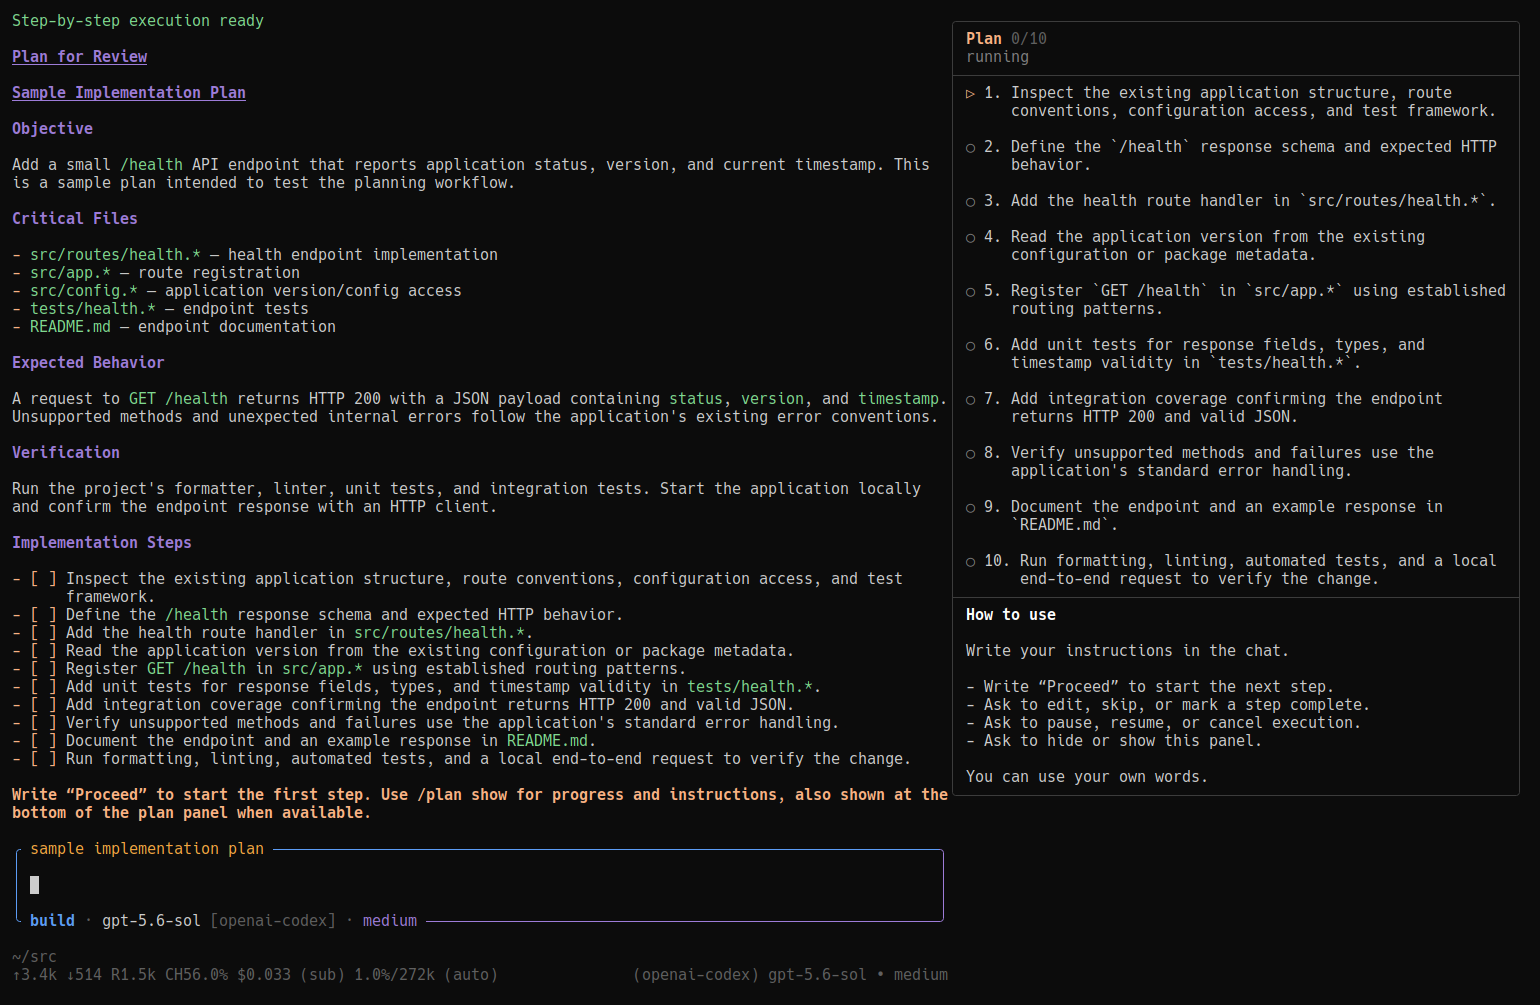
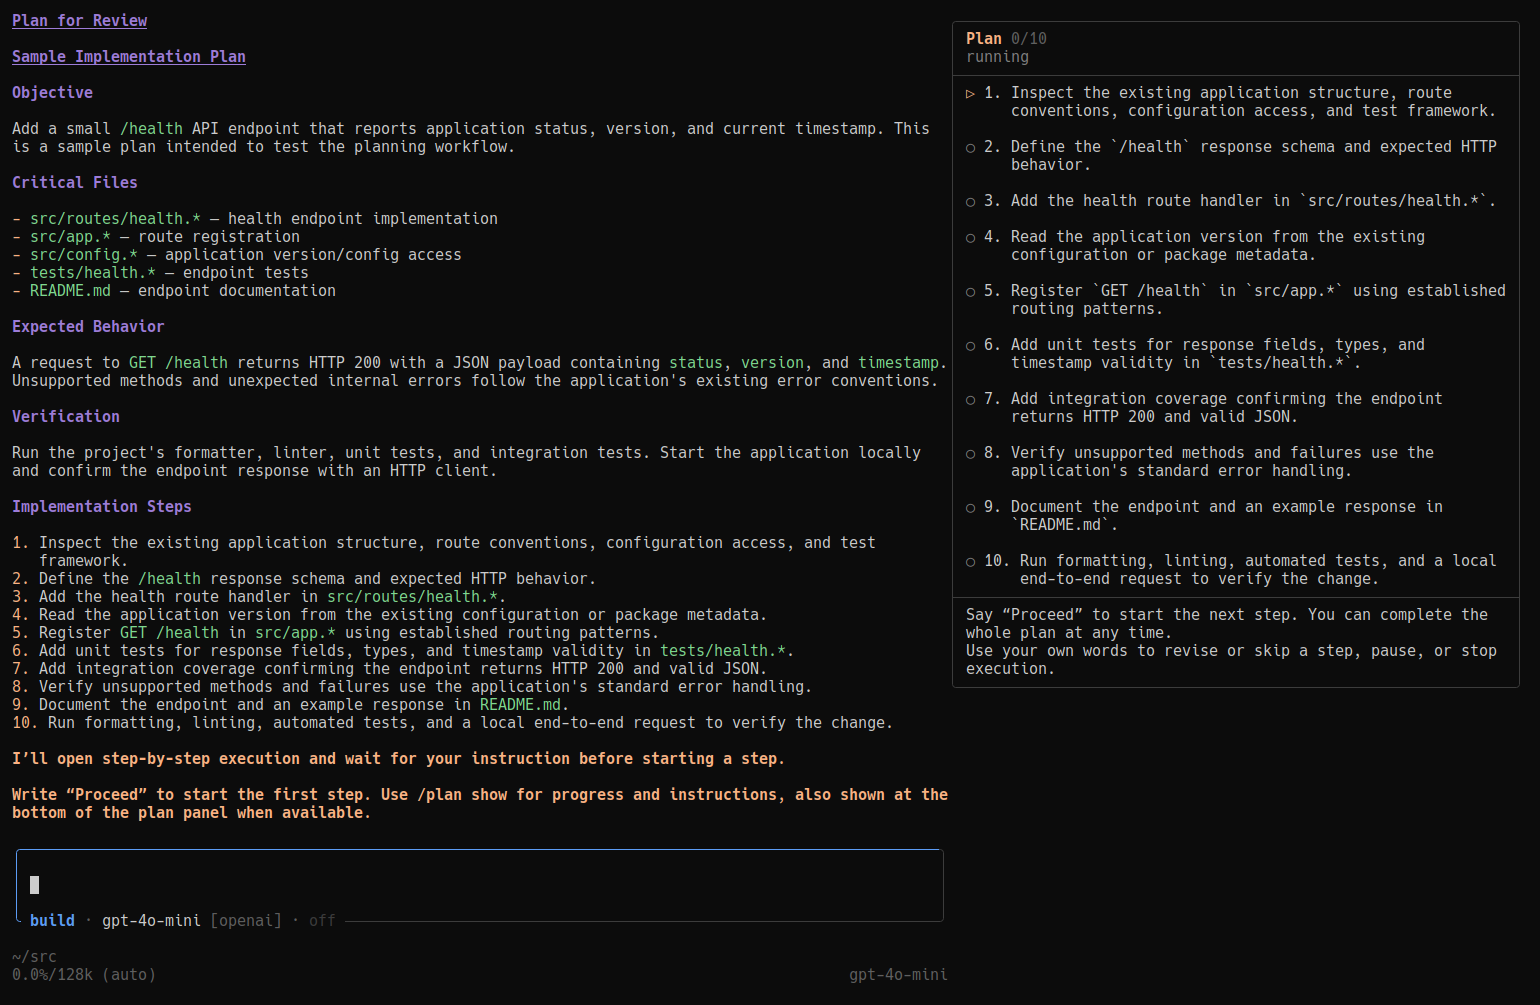
Release 0.1.93: keep panel guidance visible

diff --git a/plan-panel.ts b/plan-panel.ts
@@ -1,5 +1,5 @@
 import type { Theme } from "@earendil-works/pi-coding-agent";
-import { ScrollView, truncateToWidth, visibleWidth, wrapTextWithAnsi, type Component } from "@earendil-works/pi-tui";
+import { ScrollView, truncateToWidth, visibleWidth, VStack, wrapTextWithAnsi, type Component } from "@earendil-works/pi-tui";
 import type { PlanExecutionState } from "./plan-execution.ts";
 
 /**
@@ -24,7 +24,20 @@ const GLYPHS = {
 	skipped: "–",
 } as const;
 
-export class PlanPanel implements Component {
+function panelFrame(width: number, theme: Theme) {
+	const safeWidth = Math.max(12, width);
+	const inner = Math.max(1, safeWidth - 2);
+	const contentWidth = Math.max(1, safeWidth - 4);
+	const border = (text: string) => theme.fg("borderMuted", text);
+	const pad = (content = "") => {
+		const clipped = truncateToWidth(content, contentWidth, "");
+		return `${border("│")} ${clipped}${" ".repeat(Math.max(0, contentWidth - visibleWidth(clipped)))} ${border("│")}`;
+	};
+	const fit = (lines: string[]) => lines.map((line) => truncateToWidth(line, safeWidth, ""));
+	return { safeWidth, inner, contentWidth, border, pad, fit };
+}
+
+class PlanPanelHeader implements Component {
 	private state: PlanExecutionState;
 	private readonly theme: Theme;
 
@@ -40,22 +53,36 @@ export class PlanPanel implements Component {
 	invalidate(): void {}
 
 	render(width: number): string[] {
-		const safeWidth = Math.max(12, width);
-		const inner = Math.max(1, safeWidth - 2);
-		const contentWidth = Math.max(1, safeWidth - 4);
-		const border = (text: string) => this.theme.fg("borderMuted", text);
-		const pad = (content = "") => {
-			const clipped = truncateToWidth(content, contentWidth, "");
-			return `${border("│")} ${clipped}${" ".repeat(Math.max(0, contentWidth - visibleWidth(clipped)))} ${border("│")}`;
-		};
+		const { inner, border, pad, fit } = panelFrame(width, this.theme);
 		const done = this.state.steps.filter((step) => step.status === "completed" || step.status === "skipped").length;
 		const status = this.state.status === "completed" ? "complete" : this.state.status;
-		const lines = [
+		return fit([
 			border(`╭${"─".repeat(inner)}╮`),
 			pad(`${this.theme.bold(this.theme.fg("accent", "Plan"))} ${this.theme.fg("dim", `${done}/${this.state.steps.length}`)}`),
 			pad(this.theme.fg(this.state.status === "completed" ? "success" : this.state.status === "paused" ? "warning" : "muted", status)),
 			border(`├${"─".repeat(inner)}┤`),
-		];
+		]);
+	}
+}
+
+class PlanPanelSteps implements Component {
+	private state: PlanExecutionState;
+	private readonly theme: Theme;
+
+	constructor(state: PlanExecutionState, theme: Theme) {
+		this.state = state;
+		this.theme = theme;
+	}
+
+	setState(state: PlanExecutionState): void {
+		this.state = state;
+	}
+
+	invalidate(): void {}
+
+	render(width: number): string[] {
+		const { contentWidth, pad, fit } = panelFrame(width, this.theme);
+		const lines: string[] = [];
 		for (let index = 0; index < this.state.steps.length; index++) {
 			const step = this.state.steps[index]!;
 			const glyphColor = step.status === "completed" ? "success" : step.status === "active" || step.status === "ready" ? "accent" : "muted";
@@ -67,23 +94,53 @@ export class PlanPanel implements Component {
 			for (const continuation of wrapped.slice(1)) lines.push(pad(`${continuationIndent}${continuation}`));
 			if (index < this.state.steps.length - 1) lines.push(pad());
 		}
-		lines.push(border(`├${"─".repeat(inner)}┤`));
-		const instructions = [
-			this.theme.bold("How to use"),
-			"",
-			"Write your instructions in the chat.",
-			"",
-			"- Write “Proceed” to start the next step.",
-			"- Ask to edit, skip, or mark a step complete.",
-			"- Ask to pause, resume, or cancel execution.",
-			"- Ask to hide or show this panel.",
-			"",
-			"You can use your own words.",
-		];
-		for (const instruction of instructions) {
-			for (const line of wrapTextWithAnsi(instruction, contentWidth)) lines.push(pad(line));
+		return fit(lines);
+	}
+}
+
+class PlanPanelGuidance implements Component {
+	private readonly theme: Theme;
+
+	constructor(theme: Theme) {
+		this.theme = theme;
+	}
+
+	invalidate(): void {}
+
+	render(width: number): string[] {
+		const { inner, contentWidth, border, pad, fit } = panelFrame(width, this.theme);
+		const lines = [border(`├${"─".repeat(inner)}┤`)];
+		for (const entry of [
+			"Say “Proceed” to start the next step. You can complete the whole plan at any time.",
+			"Use your own words to revise or skip a step, pause, or stop execution.",
+		]) {
+			for (const line of wrapTextWithAnsi(entry, contentWidth)) lines.push(pad(line));
 		}
 		lines.push(border(`╰${"─".repeat(inner)}╯`));
-		return lines.map((line) => truncateToWidth(line, safeWidth, ""));
+		return fit(lines);
+	}
+}
+
+export class PlanPanel extends VStack {
+	private readonly header: PlanPanelHeader;
+	private readonly steps: PlanPanelSteps;
+
+	constructor(state: PlanExecutionState, theme: Theme) {
+		const header = new PlanPanelHeader(state, theme);
+		const steps = new PlanPanelSteps(state, theme);
+		const stepScroller = new ContainedScrollView(steps, { overscroll: "contain", scrollbar: "auto" });
+		const guidance = new PlanPanelGuidance(theme);
+		super([
+			{ component: header, basis: "auto", grow: 0, shrink: 0 },
+			{ component: stepScroller, basis: "auto", grow: 0, shrink: 1, minSize: 1 },
+			{ component: guidance, basis: "auto", grow: 0, shrink: 0 },
+		]);
+		this.header = header;
+		this.steps = steps;
+	}
+
+	setState(state: PlanExecutionState): void {
+		this.header.setState(state);
+		this.steps.setState(state);
 	}
 }

diff --git a/plan-panel.test.ts b/plan-panel.test.ts
@@ -1,6 +1,7 @@
 import assert from "node:assert/strict";
 import test from "node:test";
 import { ScrollView, visibleWidth, type Component } from "@earendil-works/pi-tui";
+import { getScrollViewsAt, renderLayoutFrame } from "@earendil-works/pi-tui/dist/layout.js";
 import { completePlanStep, createPlanExecution, startPlanStep } from "./plan-execution.ts";
 import { ContainedScrollView, PlanPanel } from "./plan-panel.ts";
 
@@ -30,7 +31,26 @@ test("contained scroller swallows leftover wheel lines so the chat never chains"
 	assert.equal(contained.scrollBy(-5), 0);
 });
 
-test("passive panel renders steps within its reserved width with fixed instructions", () => {
+test("only steps scroll while status and guidance remain fixed", () => {
+	const markdown = `## Implementation Steps\n${Array.from({ length: 8 }, (_, index) => `${index + 1}. Implementation step ${index + 1}`).join("\n")}`;
+	const panel = new PlanPanel(createPlanExecution(markdown), theme);
+	const before = renderLayoutFrame(panel, 64, 14, () => {});
+	const scrollers = getScrollViewsAt(before, 10, 5);
+	assert.equal(scrollers.length, 1, "the step viewport is the only scroller under its rows");
+	assert.equal(getScrollViewsAt(before, 10, 1).length, 0, "the fixed header does not scroll");
+	assert.equal(getScrollViewsAt(before, 10, 13).length, 0, "the fixed guidance does not scroll");
+	assert.match(before.lines.join("\n"), /1\. Implementation step 1/);
+	assert.doesNotMatch(before.lines.join("\n"), /8\. Implementation step 8/);
+
+	scrollers[0]!.scrollBy(100);
+	const after = renderLayoutFrame(panel, 64, 14, () => {});
+	assert.deepEqual(after.lines.slice(0, 4), before.lines.slice(0, 4), "plan progress and status stay pinned");
+	assert.deepEqual(after.lines.slice(-6), before.lines.slice(-6), "both guidance entries stay pinned");
+	assert.doesNotMatch(after.lines.join("\n"), /1\. Implementation step 1/);
+	assert.match(after.lines.join("\n"), /8\. Implementation step 8/);
+});
+
+test("passive panel renders steps within its reserved width with concise guidance", () => {
 	const panel = new PlanPanel(makeState(), theme);
 	assert.equal("handleInput" in panel, false);
 	assert.equal("focused" in panel, false);
@@ -50,15 +70,10 @@ test("passive panel renders steps within its reserved width with fixed instructi
 	}
 });
 
-test("keeps complete instructions in the last cell across states and step transitions", () => {
+test("keeps complete guidance in the last cell across states and step transitions", () => {
 	const expected = [
-		"How to use",
-		"Write your instructions in the chat.",
-		"- Write “Proceed” to start the next step.",
-		"- Ask to edit, skip, or mark a step complete.",
-		"- Ask to pause, resume, or cancel execution.",
-		"- Ask to hide or show this panel.",
-		"You can use your own words.",
+		"Say “Proceed” to start the next step. You can complete the whole plan at any time.",
+		"Use your own words to revise or skip a step, pause, or stop execution.",
 	].join(" ");
 	const ready = makeState();
 	const active = startPlanStep(ready, "step-1");

diff --git a/composer.ts b/composer.ts
@@ -1,6 +1,6 @@
 import { CustomEditor, type ExtensionAPI, type ExtensionContext } from "@earendil-works/pi-coding-agent";
 import { HStack, matchesKey, truncateToWidth, visibleWidth, isViewportTUI, type Component, type TUI, type ViewportTUI } from "@earendil-works/pi-tui";
-import { PlanPanel, ContainedScrollView } from "./plan-panel.ts";
+import { PlanPanel } from "./plan-panel.ts";
 import type { PlanExecutionState } from "./plan-execution.ts";
 import { formatModeRail, formatModeMetadata, formatModeTopBorder, nextMode, ownsUiSlot, renderModeComposer, shouldReduceOptionalUi, type Mode } from "./utils.ts";
 
@@ -71,11 +71,9 @@ export function createComposer(
 		if (!panelRoot) {
 			const layoutToken = { enabled: true };
 			token = layoutToken;
-			// ponytail: ContainedScrollView swallows leftover wheel lines so scrolling never chains to the chat
-			const scroller = new ContainedScrollView(panel, { overscroll: "contain", scrollbar: "auto" });
 			panelRoot = new HStack([
 				{ component: originalRoot, basis: 0, grow: 1, shrink: 1, minSize: 58 },
-				{ component: scroller, basis: PANEL_WIDTH, grow: 0, shrink: 0, minSize: PANEL_WIDTH, maxSize: PANEL_WIDTH,
+				{ component: panel, basis: PANEL_WIDTH, grow: 0, shrink: 0, minSize: PANEL_WIDTH, maxSize: PANEL_WIDTH,
 					visible: (viewport) => layoutToken.enabled && !reduced && !!view().execution && view().execution?.panelVisible !== false && viewport.width >= PANEL_MIN_TERMINAL_WIDTH },
 			]);
 			tui.setLayoutRoot?.(panelRoot);

diff --git a/docs/workflow.md b/docs/workflow.md
@@ -70,7 +70,7 @@ Step execution works in regular/narrow TUI and RPC without a sidebar. For the op
 { "tuiMode": "fullscreen" }
 ```
 
-The passive **64-column** right panel reserves space rather than covering the transcript/editor. It wraps long instructions, collapses below 132 columns, never captures input, and shows persistent **How to use** guidance. Startup asks you to say “Proceed” and points to `/plan show` for progress and instructions. The same workflow works without a sidebar; compact tool results describe each transition and RPC receives startup guidance.
+The passive **64-column** right panel reserves space rather than covering the transcript/editor. It wraps long step text, collapses below 132 columns, and never captures input. Plan progress and concise natural-language guidance stay fixed while only the step list scrolls. Startup asks you to say “Proceed” and points to `/plan show` for full progress and instructions. The same workflow works without a sidebar; compact tool results describe each transition and RPC receives startup guidance.
 
 Plans end with discrete top-level instructions:
 
